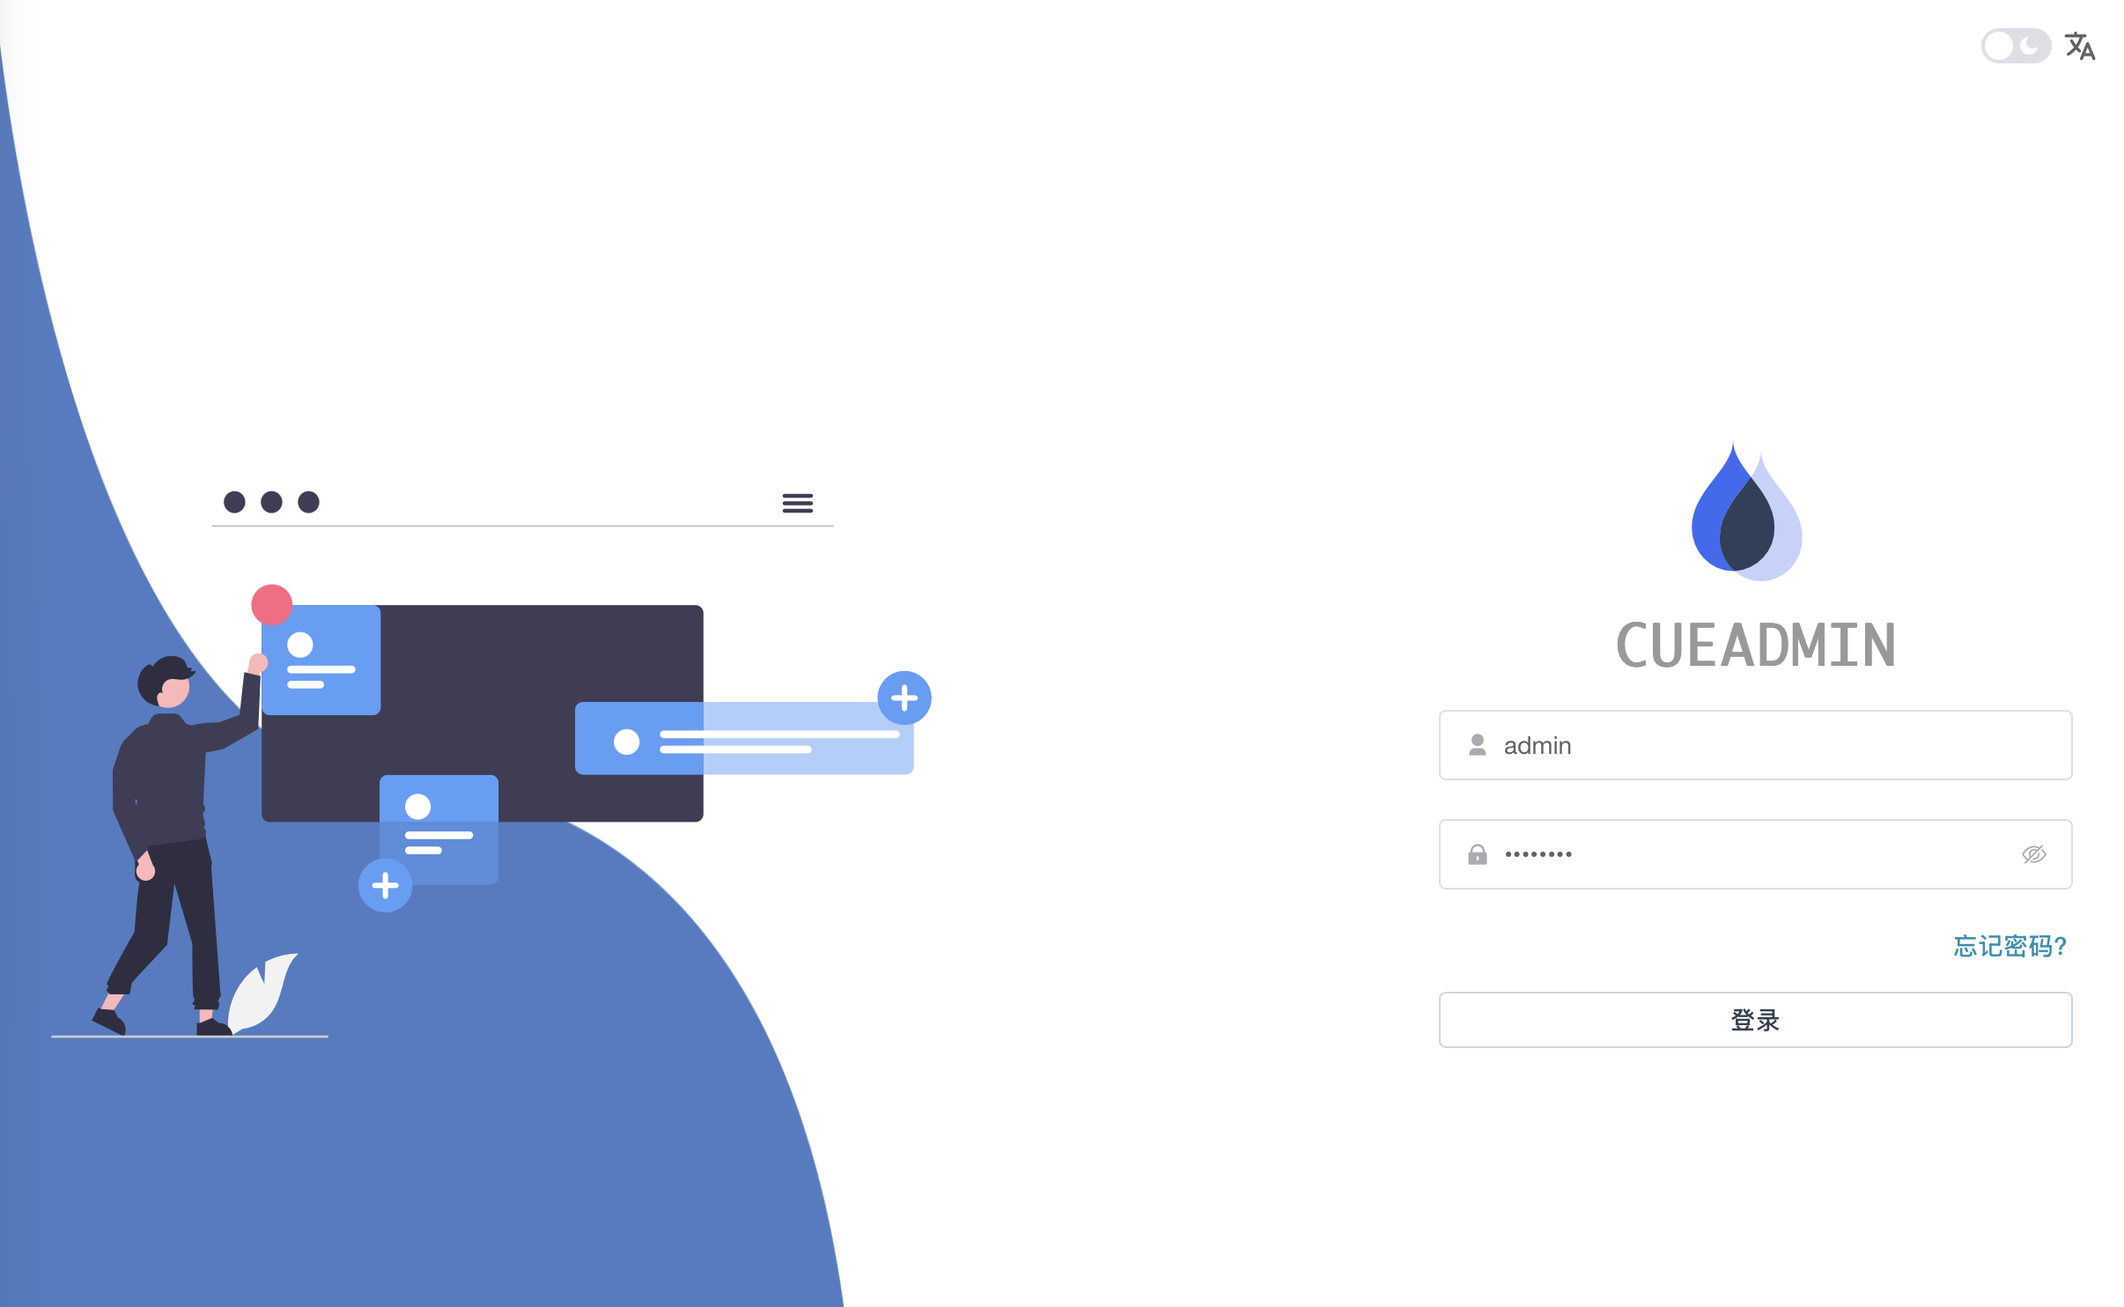
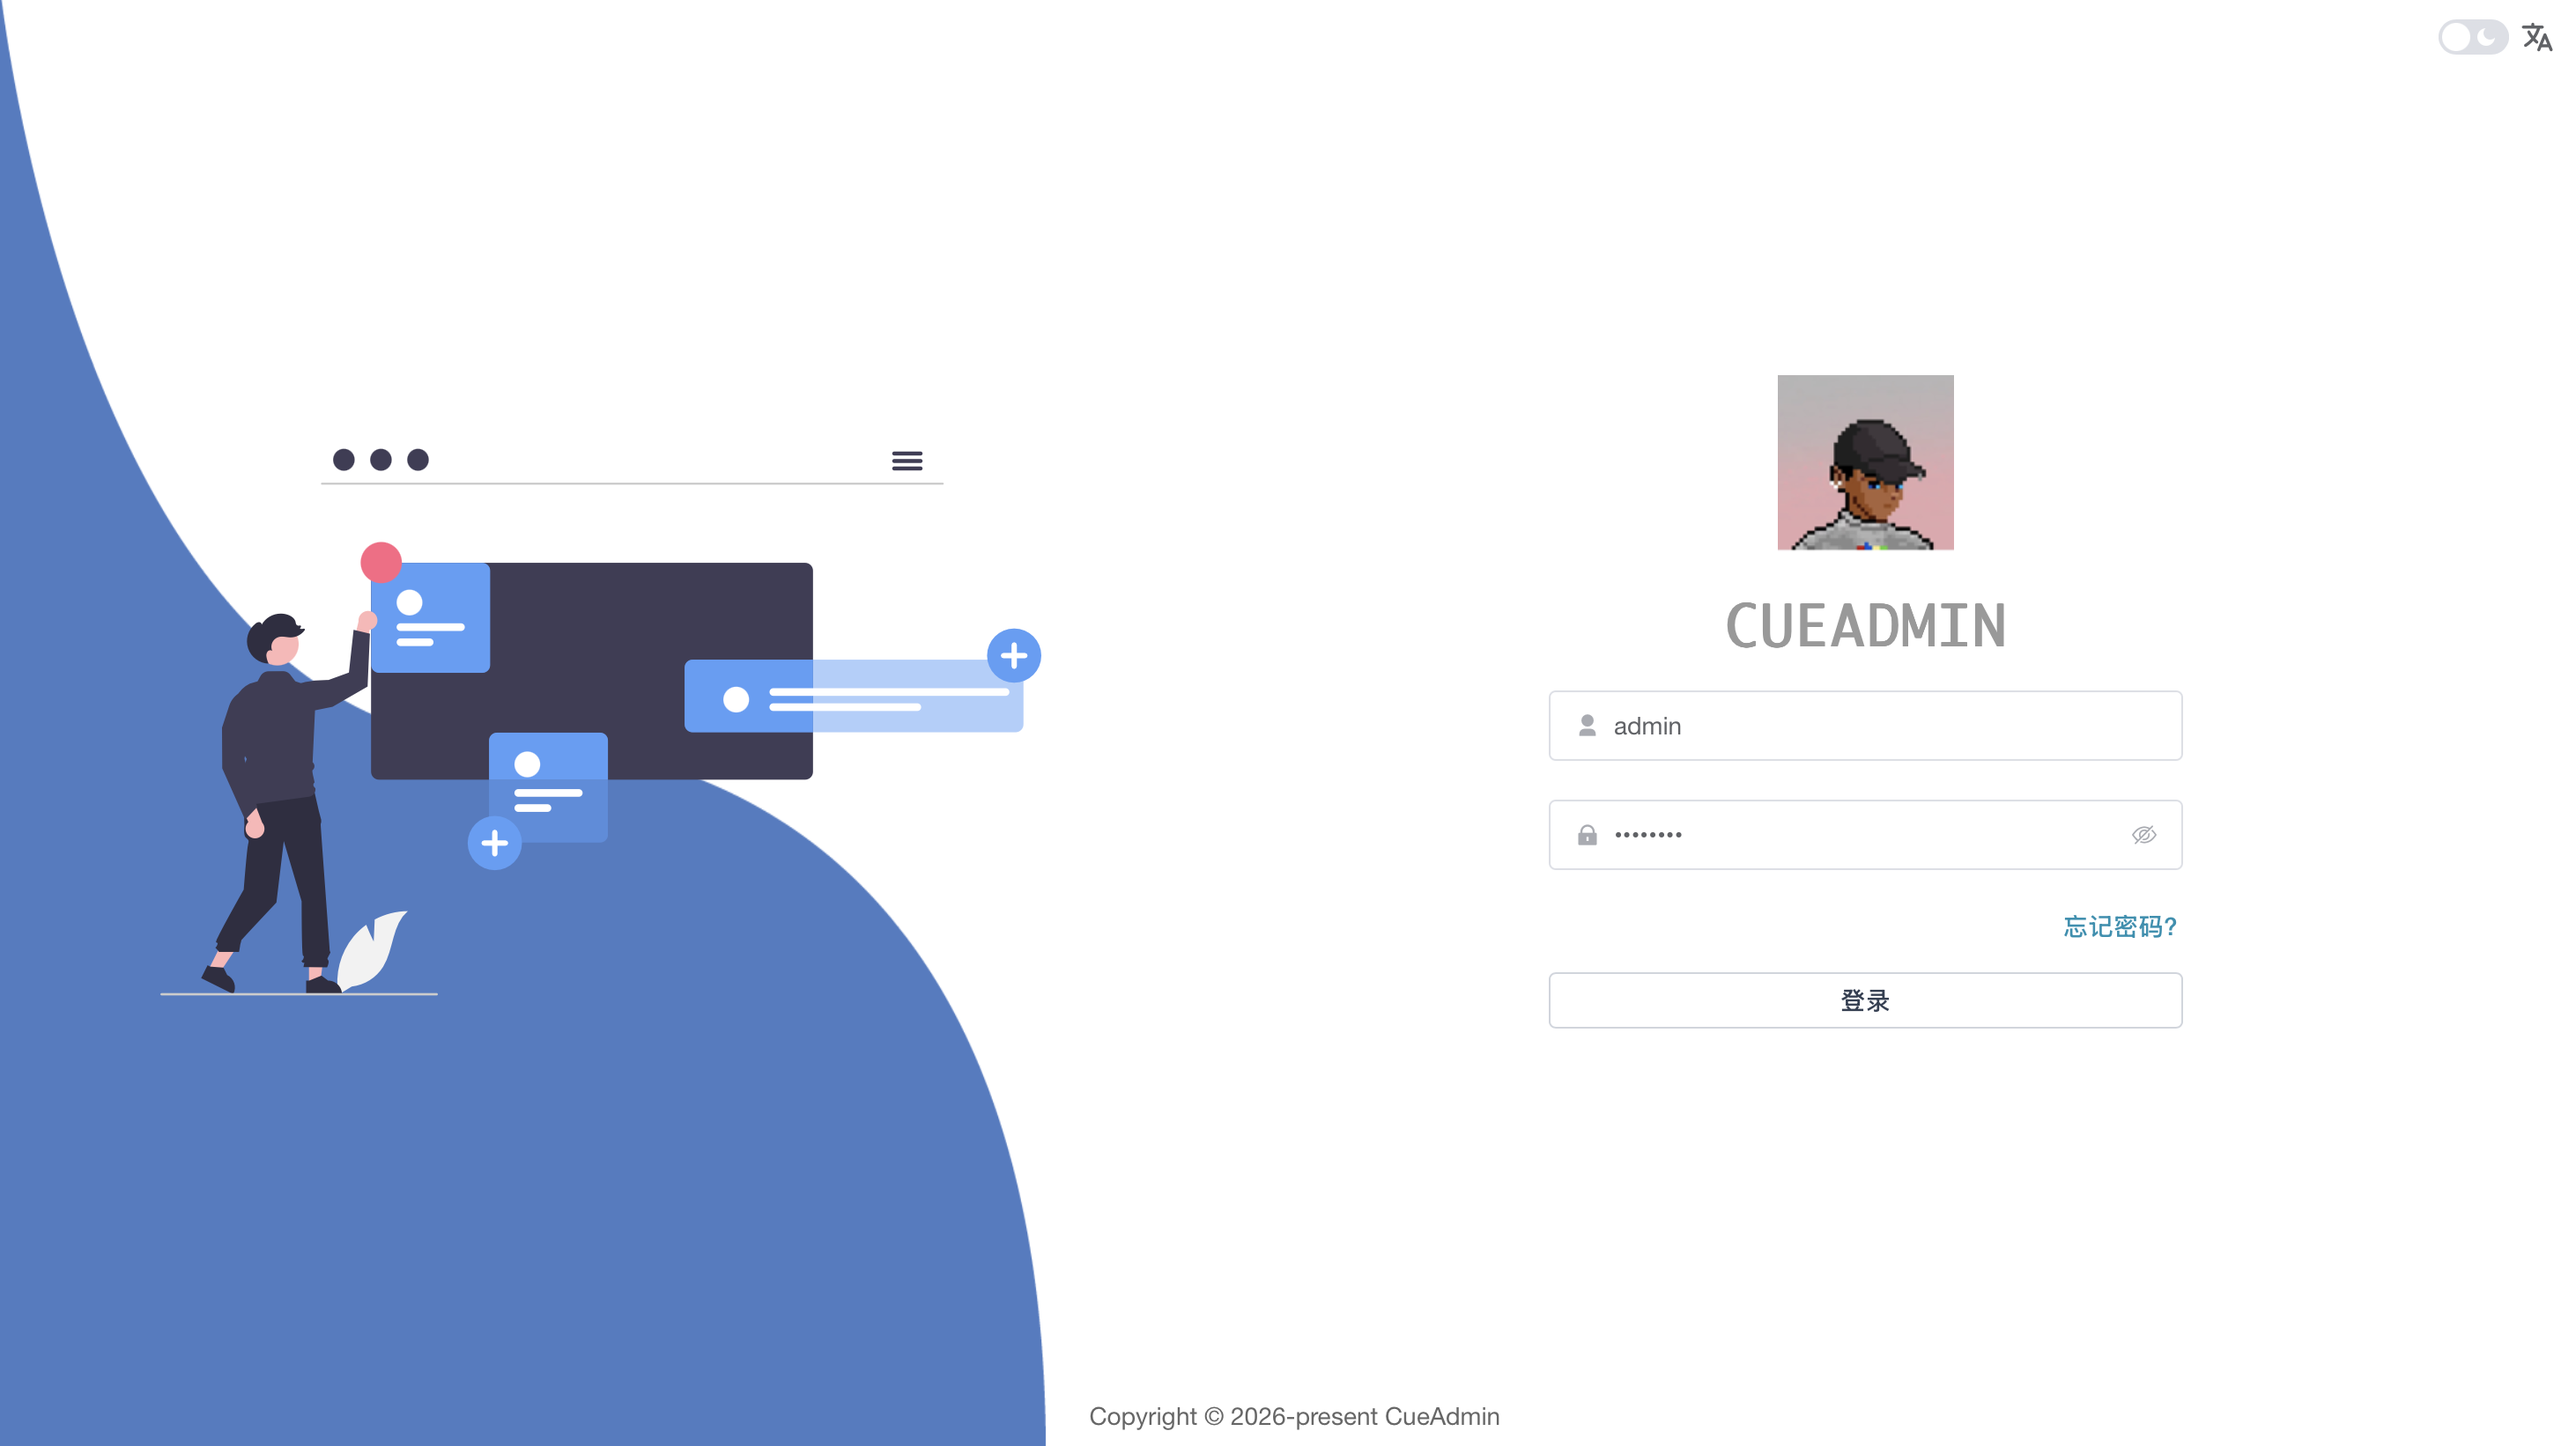
docs: 更新 README 截图 + 补充系统管理页截图

diff --git a/README.md b/README.md
@@ -12,15 +12,23 @@
 
 ## 功能一览
 
-> 📸 **截图示例**：以下为实际运行截图（图片放在 `docs/images/` 目录，Markdown 中用相对路径引用）。
+> 📸 **截图示例**：以下为实际运行截图（存放于 `docs/images/` 目录，Markdown 相对路径引用）。
 
-![登录页](docs/images/login.png)
+| 登录页 | 仪表盘 |
+|:---:|:---:|
+| ![登录页](docs/images/login.png) | ![仪表盘](docs/images/dashboard.png) |
 
-![仪表盘](docs/images/dashboard.png)
+| 用户管理 | 角色管理 |
+|:---:|:---:|
+| ![用户管理](docs/images/users.png) | ![角色管理](docs/images/roles.png) |
 
-![用户管理](docs/images/users.png)
+| 菜单管理 | 权限管理 |
+|:---:|:---:|
+| ![菜单管理](docs/images/menus.png) | ![权限管理](docs/images/permissions.png) |
 
-![角色管理](docs/images/roles.png)
+| 部门管理 |  |
+|:---:|:---:|
+| ![部门管理](docs/images/departments.png) |  |
 
 | 模块 | 功能 |
 |------|------|
